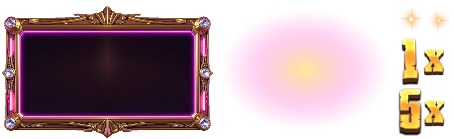
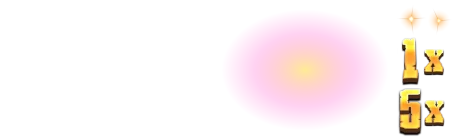
feat(WildParty): 倍數框改圓形雕花徽章(方案B)
- process_medallion.mjs: banner.jpg色鍵+右半鏡像對稱化→medallion.png
- multiframe_v2的Frame_Multiplier區改全透明(spine reset/win動畫照跑,
  oncomplete流程不變), 視覺由GlobalMultiplier直繪的徽章Sprite接手
- 徽章2.9x字高, 全畫面唯一圓形輪廓; 滾輪數字縮0.8x配合圓窗,
  遮罩窗收窄至1.52x1.0 ROW_H

diff --git a/apps/WildParty/src/components/GlobalMultiplier.svelte b/apps/WildParty/src/components/GlobalMultiplier.svelte
@@ -177,6 +177,15 @@
 							y={jolt.current}
 							scale={{ x: 1 + (1 - sq.current) * 0.5, y: sq.current }}
 						>
+						<!-- round ornate medallion — the ONLY circular element on
+						     screen, so the FG multiplier reads instantly. The old
+						     spine plank is blanked (generate_frames_v3.mjs) -->
+						<Sprite
+							key="multMedallion"
+							anchor={0.5}
+							width={FONT_SIZE * 2.9}
+							height={FONT_SIZE * 2.9 * 1.052}
+						/>
 						<!-- charge/flash glow sits outside the wheel mask -->
 						<Sprite
 							key="fxGlow"
@@ -184,14 +193,14 @@
 							tint={0xffe9a8}
 							blendMode="add"
 							width={ROW_H * 2.6}
-							height={ROW_H * 1.8}
+							height={ROW_H * 2.2}
 							alpha={glow.current}
 						/>
 						<Container>
 							<Graphics
 								isMask
 								draw={(g) => {
-									g.rect(-ROW_H * 1.6, -ROW_H * 0.62, ROW_H * 3.2, ROW_H * 1.24).fill(0xffffff);
+									g.rect(-ROW_H * 0.76, -ROW_H * 0.5, ROW_H * 1.52, ROW_H * 1.0).fill(0xffffff);
 								}}
 							/>
 							{#each Array.from({ length: rowCount }) as _, i (i)}
@@ -201,7 +210,7 @@
 										anchor={0.5}
 										{y}
 										text={`${base + i}×`}
-										style={neonNumberStyle(FONT_SIZE)}
+										style={neonNumberStyle(FONT_SIZE * 0.8)}
 									/>
 								{/if}
 							{/each}

diff --git a/apps/WildParty/src/game/assets.ts b/apps/WildParty/src/game/assets.ts
@@ -376,6 +376,12 @@ export default {
 		src: new URL('../../assets/sprites/character/party_hostess_glass.png', import.meta.url).href,
 		preload: true,
 	},
+	// round ornate medallion backing the FG multiplier (design/process_medallion.mjs)
+	multMedallion: {
+		type: 'sprite',
+		src: new URL('../../assets/sprites/multMedallion/medallion.png', import.meta.url).href,
+		preload: true,
+	},
 	globalMultiplier: {
 		type: 'spine',
 		src: {
